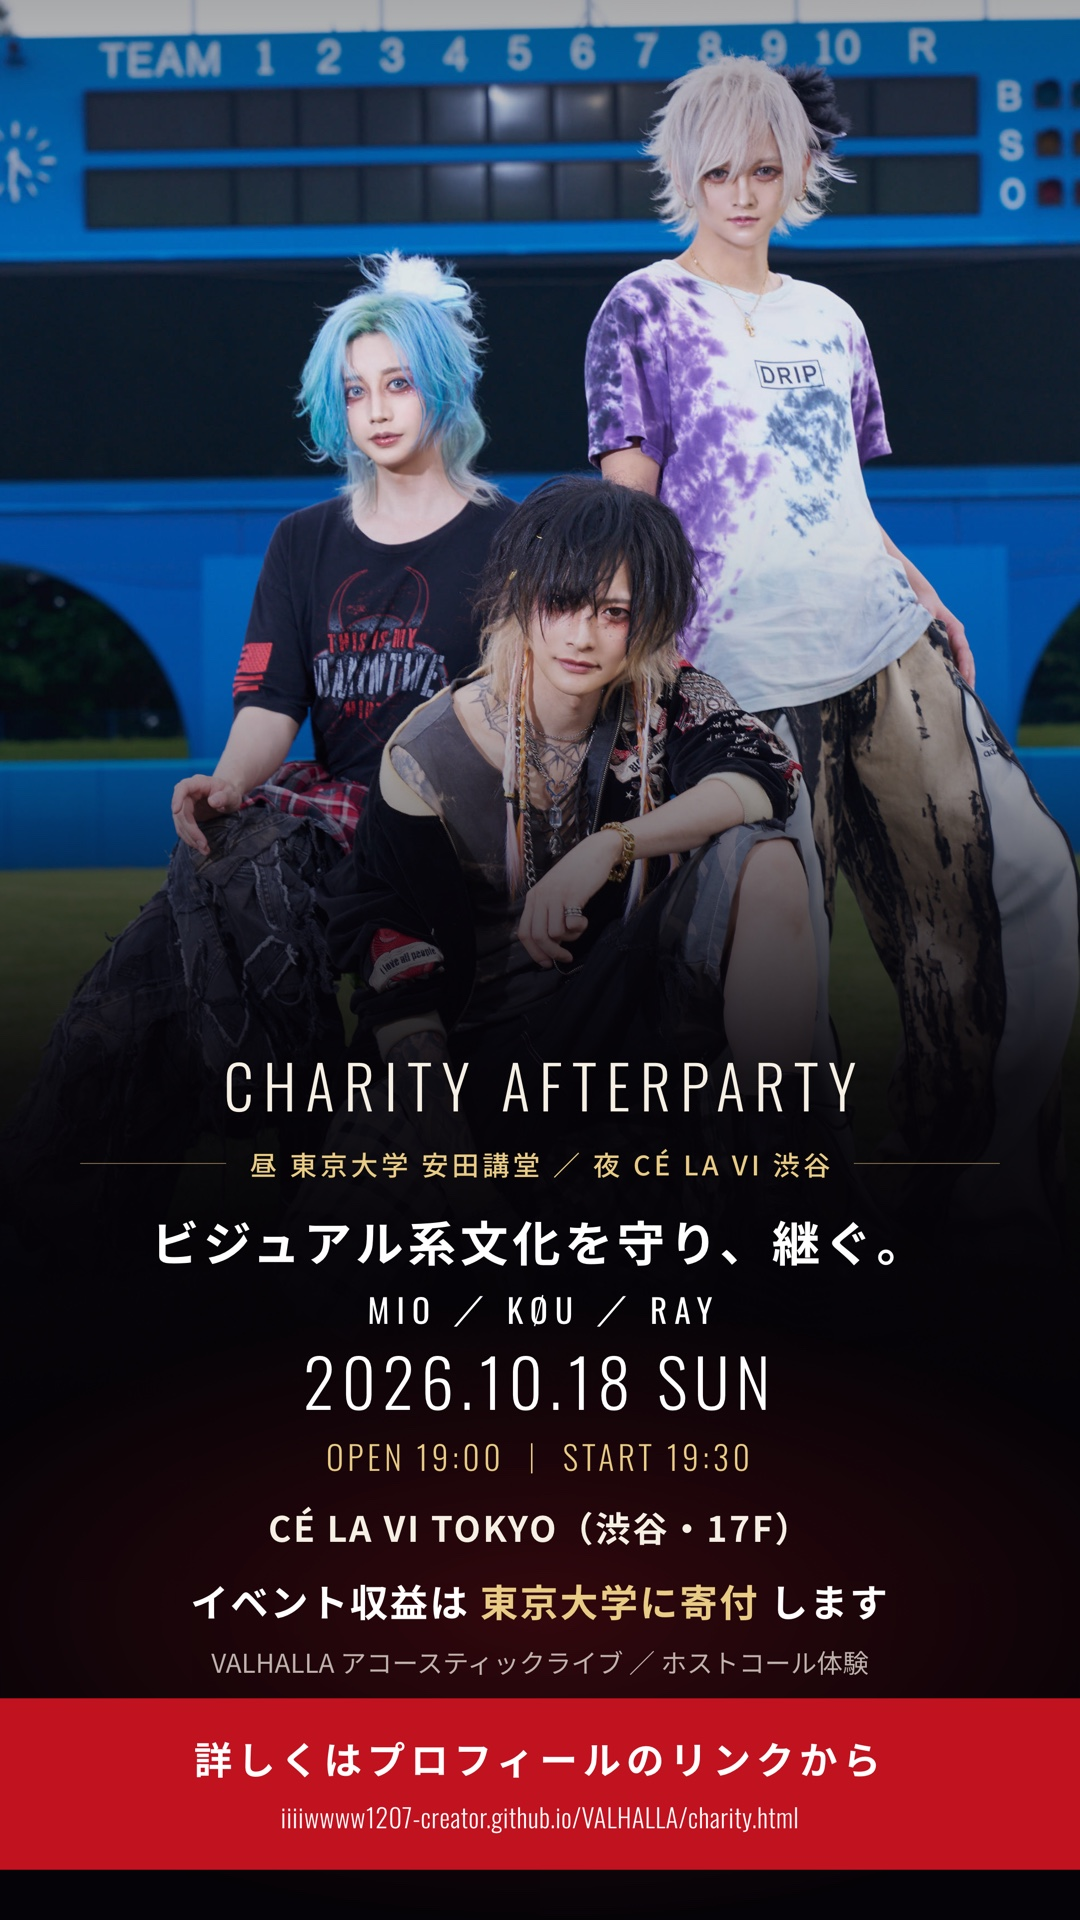
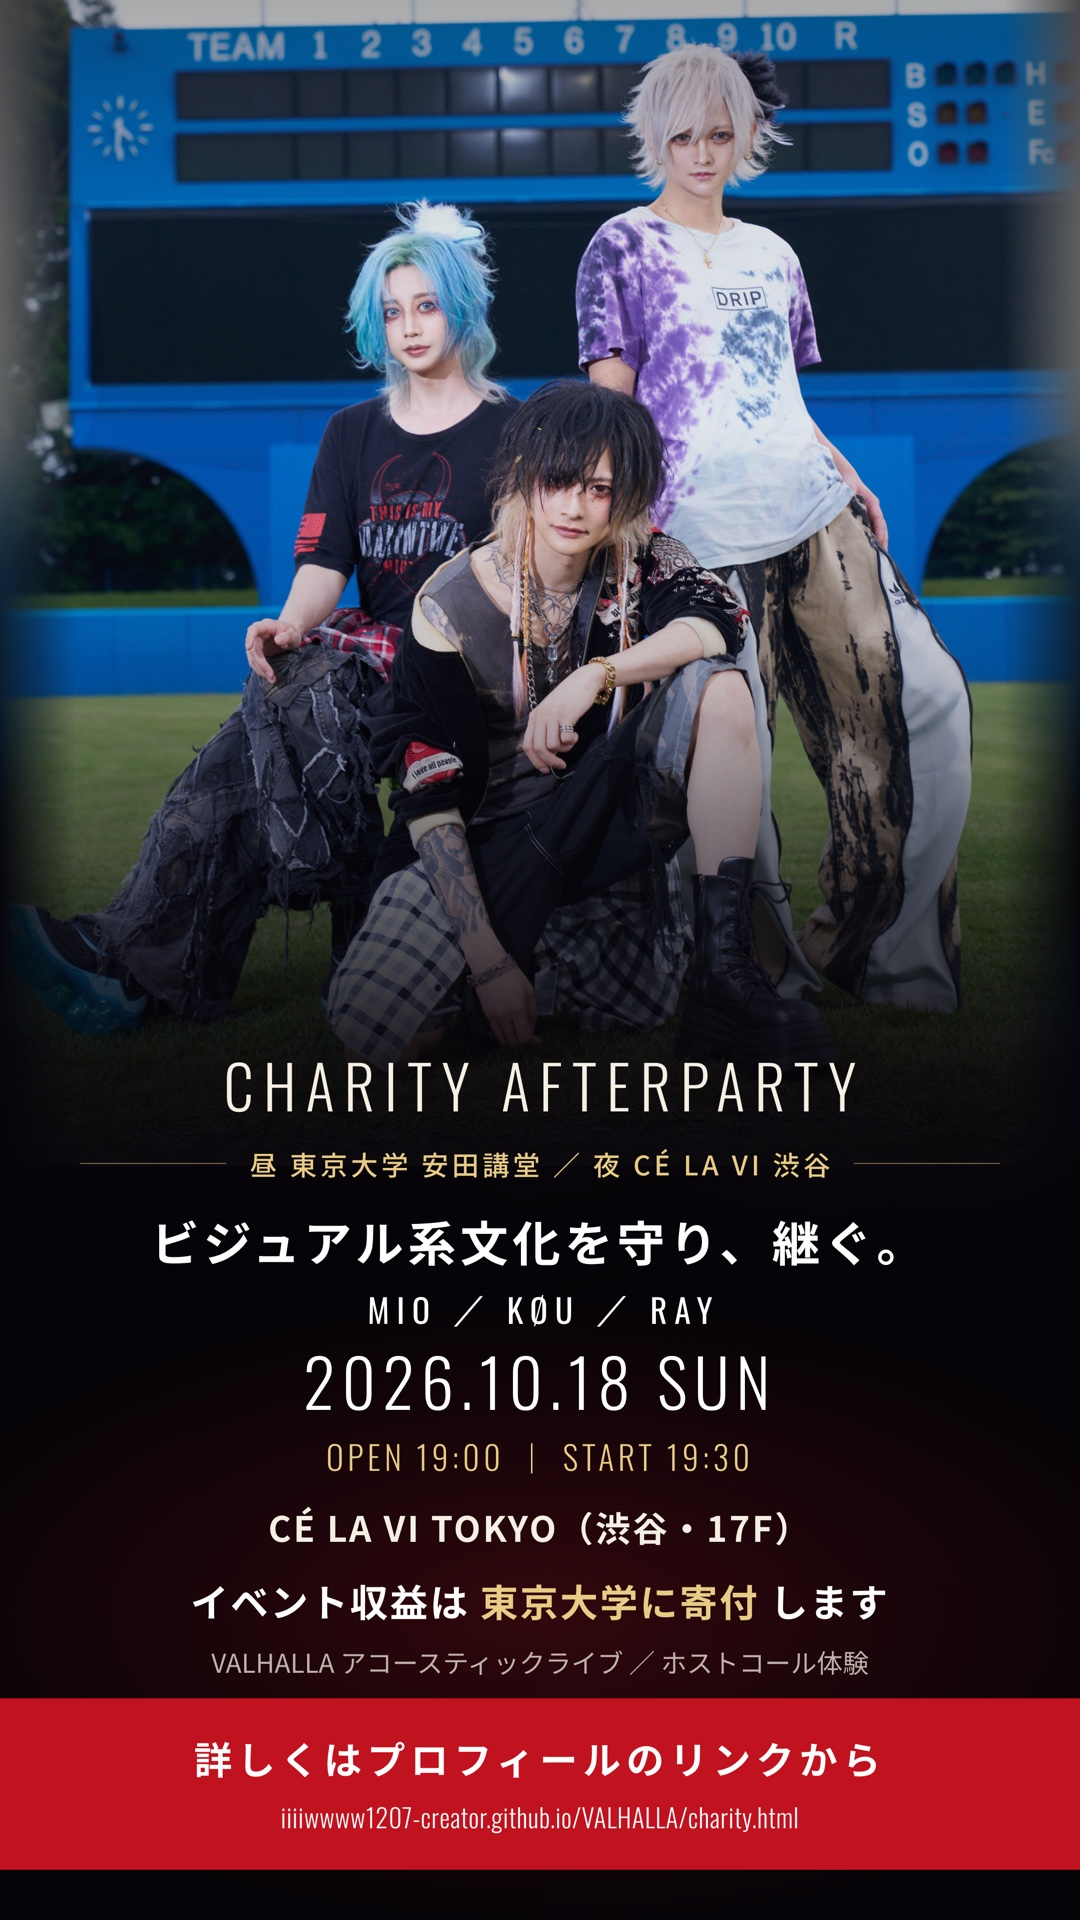
SNS1枚目：さらに引いた構図に（ぼかし面で左右を埋める）
kazuma 指示「もっと引きにして」。

写真(2:3)は 4:5 / 1:1 の枠より縦長なので、これ以上引くと左右に
隙間が出る。同じ写真をぼかして全面に敷き、その上に実寸写真を
重ねる構成にして、フルブリードを保ったまま引けるようにした。

- .bg  : 同じ写真を blur(46px)+暗くして全面に敷く（隙間を埋める役）
- .bgf : 実寸の写真。左右7%をマスクでフェードさせぼかし面に溶かす
  feed45 88%幅/-399px ・ square 88%幅/-399px ・ story 100%幅/-454px

引いたことでスコアボード全景・グラウンド・木立・3人の衣装の裾
（ストーリー版はブーツまで）が入り、ロケーションごとの絵になった。
スコアボード上端スレスレ／RAYの頭が切れない／KØUの顔が空く、は維持。

diff --git a/flyer-sns.html b/flyer-sns.html
@@ -51,12 +51,20 @@
       background:linear-gradient(180deg,rgba(5,3,7,.72) 0%,rgba(5,3,7,.80) 26%,rgba(5,3,7,.90) 52%,rgba(5,3,7,.95) 100%)}
 
   /* ── 1枚目：集合写真をフルブリードで敷き、下半分にスクリムで文字を載せる ── */
+  /* 引いた写真の左右の隙間を、同じ写真のぼかしで埋める（フルブリードを保つ） */
   .board.feed45 .bg,.board.square .bg,.board.story .bg{
       background-image:url('assets/charity/group_field.jpg');
-      background-size:cover;opacity:1;filter:none}
-  .board.feed45 .bg{background-size:100% auto;background-position:center -452px}
-  .board.square .bg{background-size:100% auto;background-position:center -452px}
-  .board.story  .bg{background-size:125% auto;background-position:center -566px}
+      background-size:cover;background-position:center 34%;opacity:1;
+      filter:blur(46px) brightness(.42) saturate(.8);transform:scale(1.2)}
+  /* 前面の実寸写真 */
+  .bgf{position:absolute;inset:0;z-index:-3;background-repeat:no-repeat;
+    -webkit-mask-image:linear-gradient(90deg,transparent 0,#000 7%,#000 93%,transparent 100%);
+    mask-image:linear-gradient(90deg,transparent 0,#000 7%,#000 93%,transparent 100%)}
+  .board.feed45 .bgf,.board.square .bgf,.board.story .bgf{
+      background-image:url('assets/charity/group_field.jpg')}
+  .board.feed45 .bgf{background-size:88% auto;background-position:center -399px}
+  .board.square .bgf{background-size:88% auto;background-position:center -399px}
+  .board.story  .bgf{background-size:100% auto;background-position:center -454px}
   .board.feed45 .veil,.board.square .veil,.board.story .veil{
       background:linear-gradient(180deg,
         rgba(5,3,7,.34) 0%, rgba(5,3,7,.10) 12%, rgba(5,3,7,.08) 22%, rgba(5,3,7,.22) 36%,
@@ -293,7 +301,7 @@
 
 <!-- ============ 1080 x 1350 ／ Instagram フィード・X ============ -->
 <section class="board feed45">
-  <div class="bg"></div><div class="veil"></div><div class="glow"></div>
+  <div class="bg"></div><div class="bgf"></div><div class="veil"></div><div class="glow"></div>
   <div class="head">
     <img class="mark" src="assets/charity/logo_gold.webp" alt="VALHALLA">
     <h1>Charity Afterparty</h1>
@@ -318,7 +326,7 @@
 
 <!-- ============ 1080 x 1080 ／ グリッド・X ============ -->
 <section class="board square">
-  <div class="bg"></div><div class="veil"></div><div class="glow"></div>
+  <div class="bg"></div><div class="bgf"></div><div class="veil"></div><div class="glow"></div>
   <div class="head">
     <img class="mark" src="assets/charity/logo_gold.webp" alt="VALHALLA">
     <h1>Charity Afterparty</h1>
@@ -339,7 +347,7 @@
 
 <!-- ============ 1080 x 1920 ／ ストーリー・リール ============ -->
 <section class="board story">
-  <div class="bg"></div><div class="veil"></div><div class="glow"></div>
+  <div class="bg"></div><div class="bgf"></div><div class="veil"></div><div class="glow"></div>
   <div class="head">
     <img class="mark" src="assets/charity/logo_gold.webp" alt="VALHALLA">
     <h1>Charity Afterparty</h1>

diff --git a/docs/celavi-afterparty.md b/docs/celavi-afterparty.md
@@ -97,7 +97,10 @@
         寄り引きは**フルブリードを保てる限界まで引く**（kazuma 指示 2026-08-27）。
         引くとスコアボード全景・グラウンド・衣装の裾まで入り、ロケーションの空気が出る。
         位置は %ではなくpx指定（画像を上へ送る量が直感的に決まるため）。
-        現在値: feed45=100%幅/-452px ・ square=100%幅/-452px ・ story=125%幅/-566px
+        さらに引く場合、写真(2:3)は 4:5 / 1:1 の枠より縦長なので左右に隙間が出る。
+        → **同じ写真をぼかして全面に敷き（.bg）、その上に実寸写真（.bgf）を重ねて**隙間を埋める。
+        .bgf は左右を7%フェードさせてぼかし面に溶かしている。
+        現在値: .bgf = feed45 88%幅/-399px ・ square 88%幅/-399px ・ story 100%幅/-454px
       - 2枚目＝席の中身と価格の理由。ここで初めて金額を出す
       - 2枚目の背景は安田講堂の**内観を「引き」で全景**（寄せると何の建物か分からなくなるため）
       - ※ A4版は単票で完結させる必要があるので、A4には金額を残している
